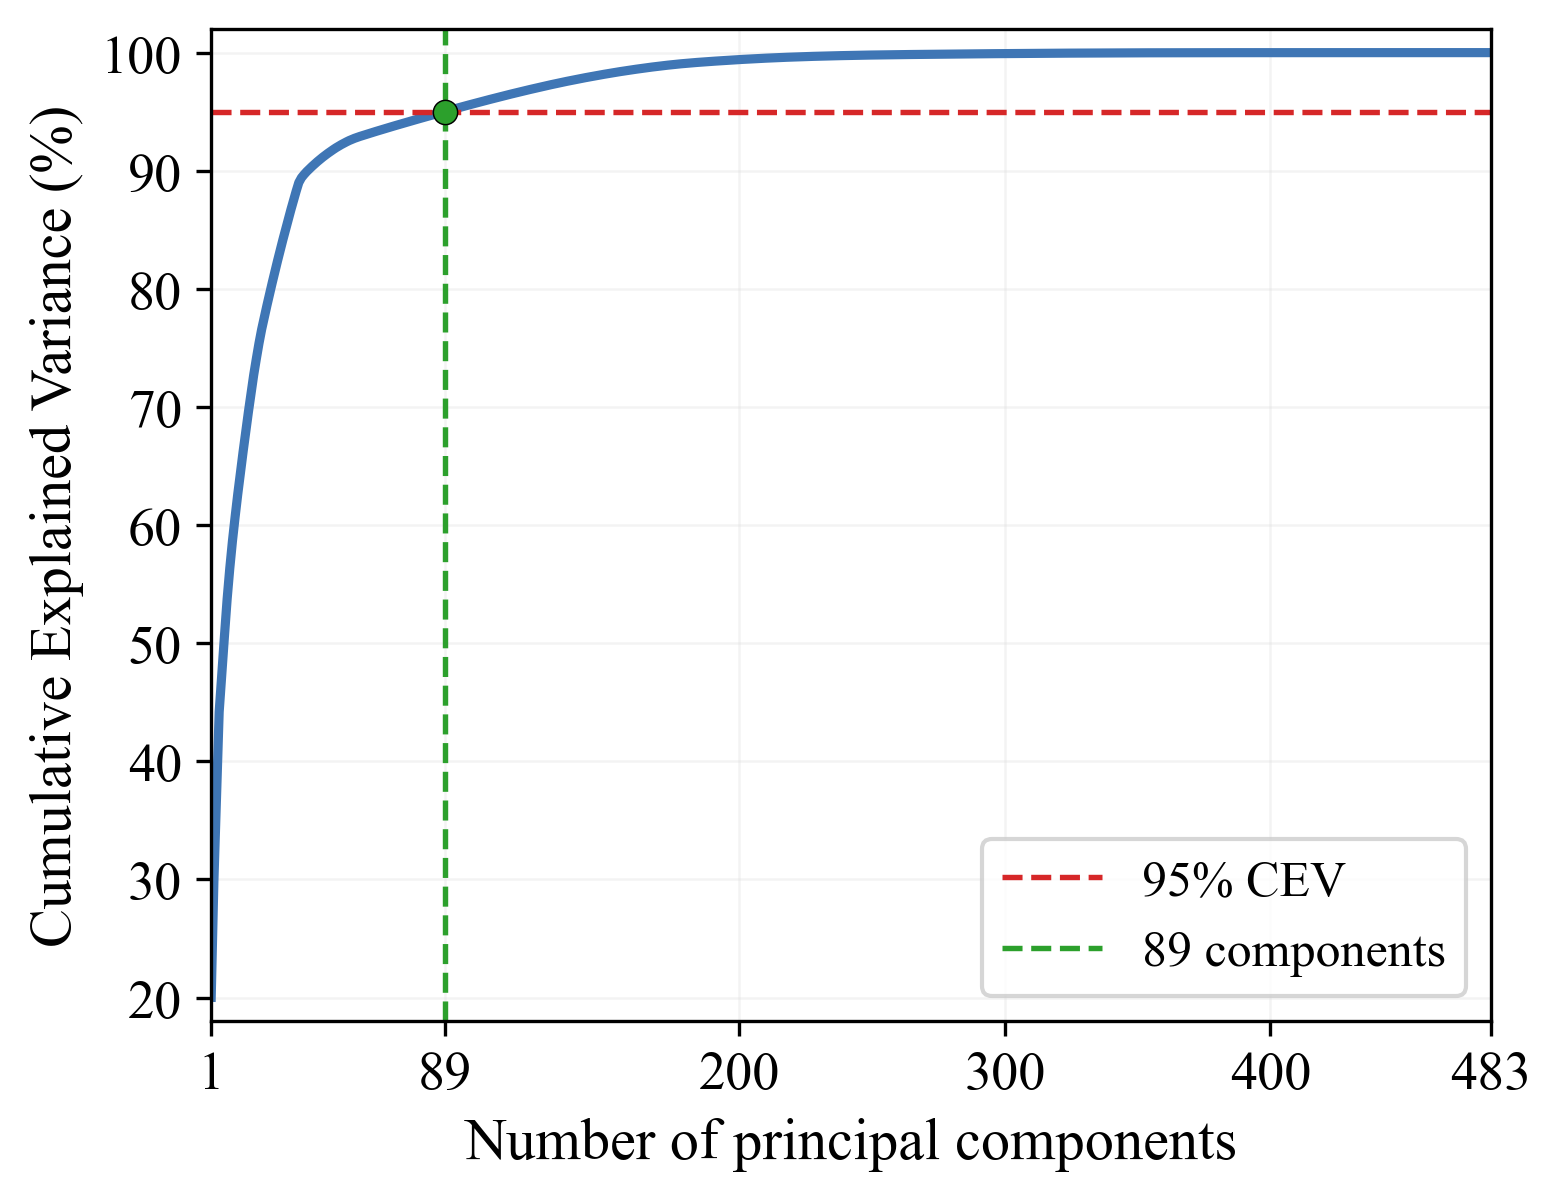
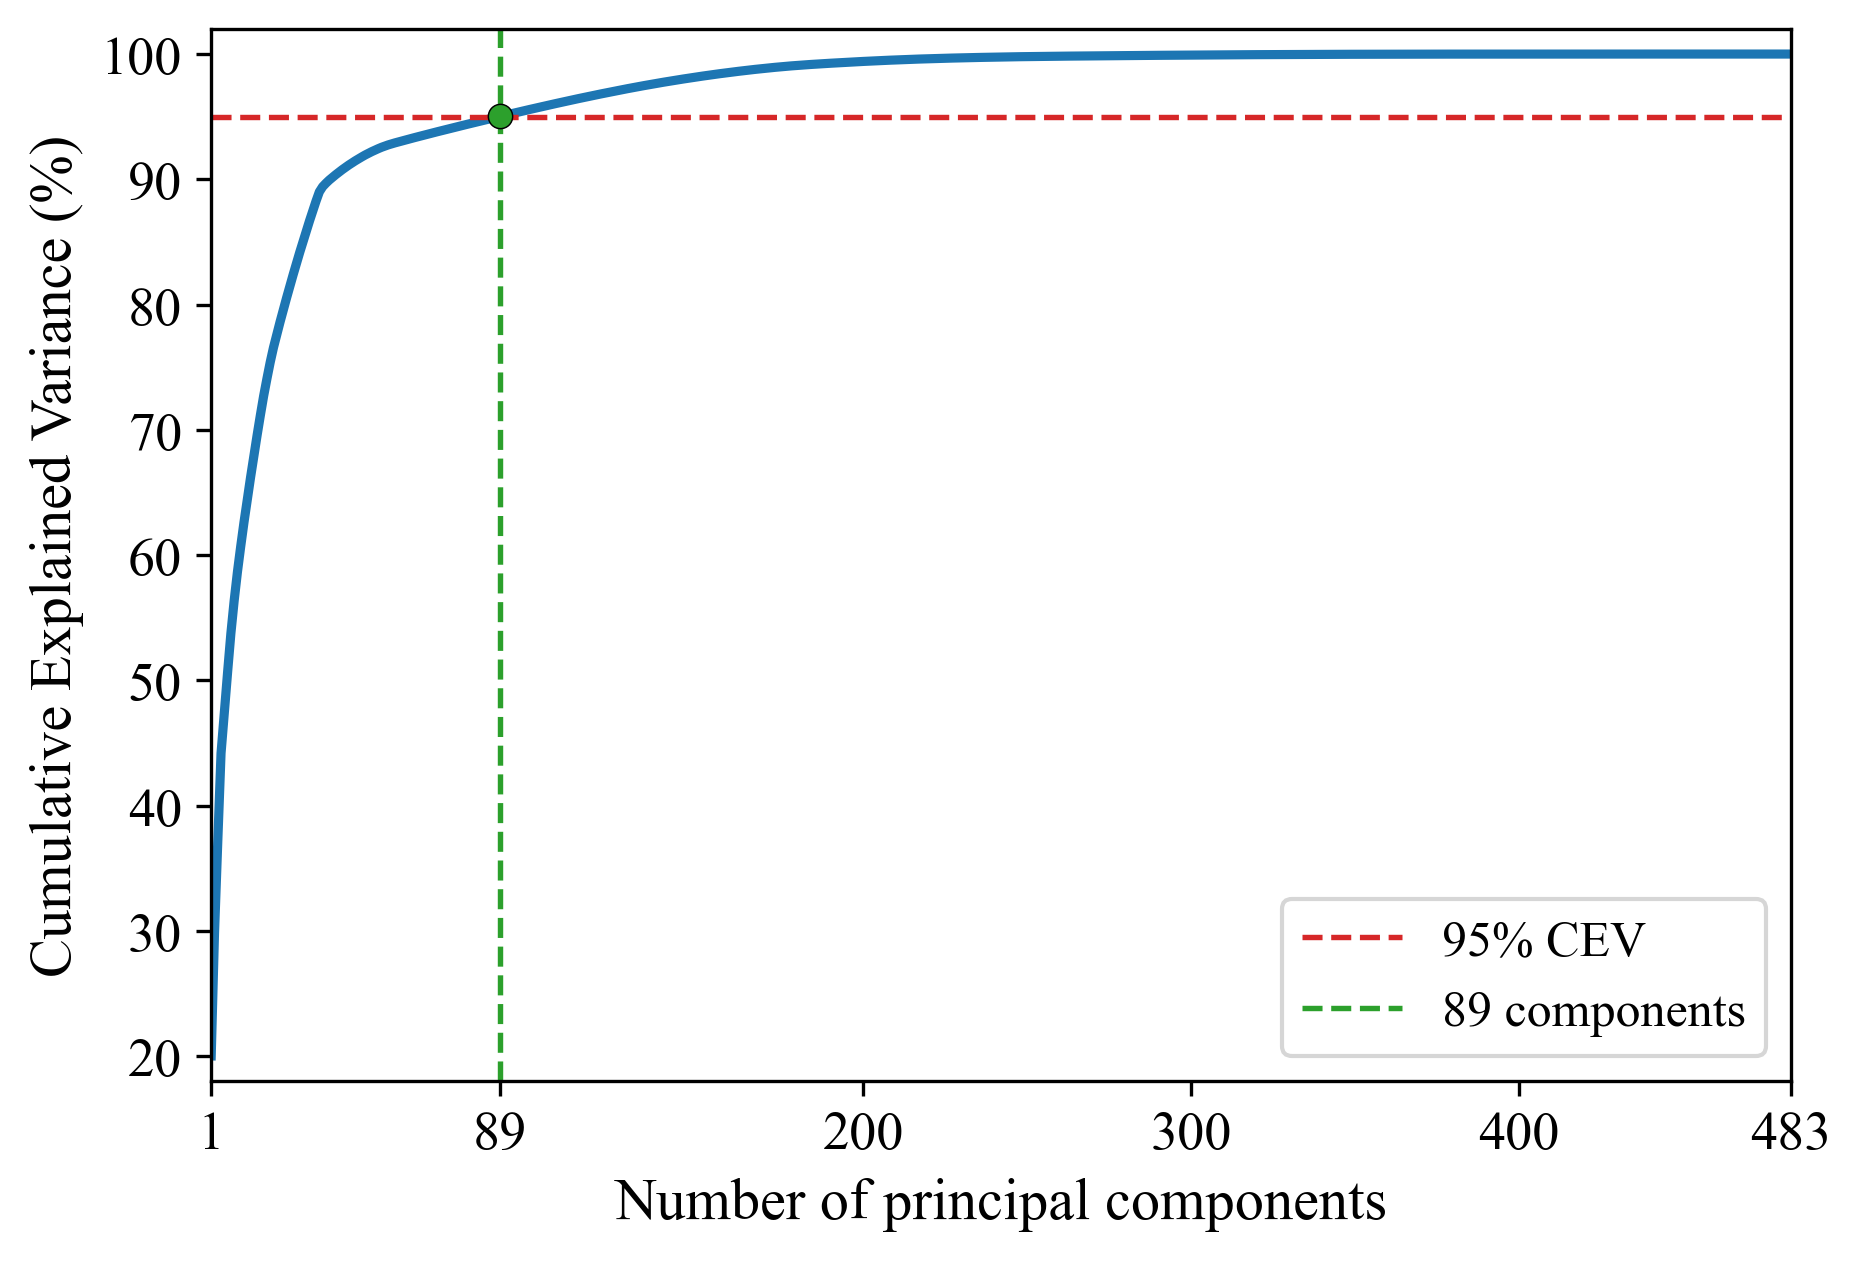
corrections

diff --git a/Chapters/Ch_5.tex b/Chapters/Ch_5.tex
@@ -18,7 +18,7 @@ The matrix was constructed so that each column corresponds to one of the 483 ban
 
 \begin{figure}[H]
     \centering
-    \includegraphics[width=0.60\textwidth]{Images/images_ch_5/05_original_vs_centered_spectrum.png}
+    \includegraphics[width=0.65\textwidth]{Images/images_ch_5/05_original_vs_centered_spectrum.png}
     \caption{Example of an original Raman spectrum and the corresponding centered spectrum used for PCA.}
     \label{fig:original_centered_spectrum}
 \end{figure}
@@ -29,8 +29,8 @@ After computing the new principal components, the most relevant parameter evalua
 
 \begin{figure}[H]
     \centering
-    \includegraphics[width=0.60\textwidth]{Images/images_ch_5/07_scree_plot_explained_variance.png}
-    \caption{Explained variance associated with the first principal components.}
+    \includegraphics[width=0.50\textwidth]{Images/images_ch_5/07_scree_plot_explained_variance.png}
+    \caption{Explained variance associated with the first \(50\) principal components.}
     \label{fig:pca_scree_plot}
 \end{figure}
 
@@ -38,10 +38,11 @@ The \textit{Cumulative Explained Variance} (CEV) plotted in \Cref{fig:pca_cumula
 
 \begin{figure}[H]
     \centering
-    \includegraphics[width=0.45\textwidth]{Images/images_ch_5/06_cumulative_explained_variance.png}
+    \includegraphics[width=0.50\textwidth]{Images/images_ch_5/06_cumulative_explained_variance.png}
     \caption{Cumulative explained variance as a function of the number of retained principal components.}
     \label{fig:pca_cumulative_variance}
 \end{figure}
+
 
 \Cref{fig:pca_reconstruction_comparison} shows the effect of reconstructing the same
 spectrum with just one component and with \(89\) components. The first component is able to capture the dominant trend, whereas the reconstruction using \(89\) components preserves the main spectral profile while providing a more compact representation.
@@ -119,14 +120,14 @@ The comparison of the tested configurations showed comparable results for all th
 
 \begin{figure}[H]
     \centering
-    \includegraphics[width=\textwidth]{Images/images_ch_5/heatmap_auc_macroclass.png}
+    \includegraphics[width=1\textwidth]{Images/images_ch_5/heatmap_auc_macroclass.png}
     \caption{AUC across the grid of network architectures and number of retained PCs for the macro-class problem (\textit{tumor} vs. \textit{healthy}). AUC stabilizes for numbers of PCs greater than 20.}
     \label{fig:heatmap_auc_macroclass}
 \end{figure}
 
 \begin{figure}[H]
     \centering
-    \includegraphics[width=\textwidth]{Images/images_ch_5/heatmap_auc_singleclass.png}
+    \includegraphics[width=1\textwidth]{Images/images_ch_5/heatmap_auc_singleclass.png}
     \caption{AUC across the grid of network architectures and number of retained PCs for the single-class problem (\textit{tumor} vs. \textit{tumor stroma}). AUC stabilizes for numbers of PCs greater than 10.}
     \label{fig:heatmap_auc_singleclass}
 \end{figure}
@@ -135,7 +136,7 @@ Although some configurations with more components or larger networks obtained eq
 
 \begin{figure}[h]
     \centering
-    \includegraphics[width=0.8\textwidth]{Images/images_ch_5/overfitting_example_L200.png}
+    \includegraphics[width=1\textwidth]{Images/images_ch_5/overfitting_example_L200.png}
     \caption{Training and validation curves for the large architecture (L) with \(200\) retained PCA components on the macro-class problem (\textit{tumor} vs. \textit{healthy}). The lines show the average value of the metric across 5 folds, while shaded areas display $\pm\sigma$ from the average. The growing separation between training and validation curves is a sign of overfitting.}
     \label{fig:overfitting_example_L200}
 \end{figure}
@@ -174,14 +175,22 @@ The configurations chosen for the two approaches, listed in \cref{tab:selected_h
 The confusion matrices and ROC curves, explained in \cref{sec:evaluation_metrics}, showed good results for both problems. The macro-class approach performed slightly worse than the single-class one, especially in non-tumoral classification, with true negative rates equaled 0,71 and 0,75 respectively, while tumoral recall achieved 0,74 in the first problem and 0,76 for the second. The imbalance in TNR is a direct consequence of the internal heterogeneity of the healthy class. The ROC curves showed symmetrical behavior with respect to the TPR and FNR, with high variability depending on the validation fold composition. Mean AUC across 5 folds achieved scores of $\text{AUC} = 0{,}7931\pm0{,}0390$, relative standard deviation $\sigma_{relative} = 4{,}9\%$, for the macro-class problem (\cref{fig:results_S20_macroclass}), and $\text{AUC} = 0{,}836\pm0{,}043$, $\sigma_{relative} = 5{,}1\%$, for the single-class problem (\cref{fig:results_S10_singleclass}). The difference in mean AUC once again indicates that, on average, the macro-class approach is more difficult than the single-class one.
 
 
+The training behavior was observed to be different between the two problems. All the validation curves sit above the training ones for the first epochs due to being evaluated after the weights are updated (while training is evaluated before the weight update). The two curves then intersect, and validation stays below training.
+
+The validation curves for the macro-class classification displayed very high variability but stabilized after only $\sim2$ epochs (\cref{fig:curves_S20_macroclass}), causing the gap between the curves to mildly increase. The model quickly learned the basic patterns and trends, achieving an AUC of 0,7931, especially thanks to the homogeneity of the tumoral class, but did not improve further and failed to generalize as well for the healthy class.
+
+
+
+The curves for the single-class problem, on the other hand, improved regularly in the early stages of training until reaching a plateau after $\sim5$ epochs, with validation staying within an acceptable margin below training. The random fold composition and small validation set size cause the standard deviation of the validation metric to be greater than that of training, enough for some individual folds to show validation above training, even though the average curve remains below.
+
 \begin{figure}[H]
     \centering
     \subfloat[Confusion matrix.\label{fig:CM_S20_macroclass}]{
-        \includegraphics[width=0.4\textwidth]{Images/images_ch_5/CM_S20_macroclass.png}
+        \includegraphics[width=0.45\textwidth]{Images/images_ch_5/CM_S20_macroclass.png}
     }
     \hfill
     \subfloat[ROC curve.\label{fig:ROC_S20_macroclass}]{
-        \includegraphics[width=0.4\textwidth]{Images/images_ch_5/ROC_S20_macroclass.png}
+        \includegraphics[width=0.45\textwidth]{Images/images_ch_5/ROC_S20_macroclass.png}
     }
     \caption{Confusion matrix and ROC curve for the macro-class problem (\textit{tumor} vs. \textit{healthy}).}
     \label{fig:results_S20_macroclass}
@@ -190,29 +199,25 @@ The confusion matrices and ROC curves, explained in \cref{sec:evaluation_metrics
 \begin{figure}[H]
     \centering
     \subfloat[Confusion matrix.\label{fig:CM_S10_singleclass}]{
-        \includegraphics[width=0.4\textwidth]{Images/images_ch_5/CM_S10_singleclass.png}
+        \includegraphics[width=0.45\textwidth]{Images/images_ch_5/CM_S10_singleclass.png}
     }
     \hfill
     \subfloat[ROC curve.\label{fig:ROC_S10_singleclass}]{
-        \includegraphics[width=0.4\textwidth]{Images/images_ch_5/ROC_S10_singleclass.png}
+        \includegraphics[width=0.45\textwidth]{Images/images_ch_5/ROC_S10_singleclass.png}
     }
     \caption{Confusion matrix and ROC curve for the single-class problem (\textit{tumor} vs. \textit{tumor stroma}).}
     \label{fig:results_S10_singleclass}
 \end{figure}
 
 
-The training behavior was observed to be different between the two problems. All the validation curves sit above the training ones for the first epochs due to being evaluated after the weights are updated (while training is evaluated before the weight update). The two curves then intersect, and validation stays below training.
-The validation curves for the macro-class classification displayed very high variability but stabilized after only $\sim2$ epochs (\cref{fig:curves_S20_macroclass}), causing the gap between the curves to mildly increase. The model quickly learned the basic patterns and trends, achieving an AUC of 0,7931, especially thanks to the homogeneity of the tumoral class, but did not improve further and failed to generalize as well for the healthy class.
-The curves for the single-class problem, on the other hand, improved regularly in the early stages of training until reaching a plateau after $\sim5$ epochs, with validation staying within an acceptable margin below training. The random fold composition and small validation set size cause the standard deviation of the validation metric to be greater than that of training, enough for some individual folds to show validation above training, even though the average curve remains below.
-
 \begin{figure}[H]
     \centering
     \subfloat[Macro-class problem (\textit{tumor} vs. \textit{healthy}).\label{fig:curves_S20_macroclass}]{
-        \includegraphics[width=0.8\textwidth]{Images/images_ch_5/curves_S20_macroclass.png}
+        \includegraphics[width=0.9\textwidth]{Images/images_ch_5/curves_S20_macroclass.png}
     }
     \\
     \subfloat[Single-class problem (\textit{tumor} vs. \textit{tumor stroma}).\label{fig:curves_S10_singleclass}]{
-        \includegraphics[width=0.8\textwidth]{Images/images_ch_5/curves_S10_singleclass.png}
+        \includegraphics[width=0.9\textwidth]{Images/images_ch_5/curves_S10_singleclass.png}
     }
     \caption{Training and validation curves for the macro-class and single-class problems. The lines show the average value of the metric across 5 folds, while shaded areas display $\pm\sigma$ from the average. The representation is truncated at the number of epochs used to train the fold that stopped first, although other folds took up to 80 epochs to train.}
     \label{fig:training_curves}
@@ -262,11 +267,11 @@ Furthermore, it is not excluded that a very poor performance on a sample may dep
 \begin{figure}[H]
     \centering
     \subfloat[\textit{tumour} vs. \textit{healthy}.\label{fig:sample_f1_tumour_healthy}]{
-        \includegraphics[width=0.48\textwidth]{Images/images_ch_5/sample_f1_tumour_healthy.png}
+        \includegraphics[width=0.45\textwidth]{Images/images_ch_5/sample_f1_tumour_healthy.png}
     }
     \hfill
     \subfloat[\textit{tumour} vs. \textit{tumour stroma}.\label{fig:sample_f1_tumour_stroma}]{
-        \includegraphics[width=0.48\textwidth]{Images/images_ch_5/sample_f1_tumour_stroma.png}
+        \includegraphics[width=0.45\textwidth]{Images/images_ch_5/sample_f1_tumour_stroma.png}
     }
     \caption{Per-sample \textit{F1-score} for the two binary classification experiments.}
     \label{fig:sample_f1_comparison}
@@ -350,13 +355,13 @@ Observing the smoothed prediction maps and comparing them with the raw ones, as 
 \begin{figure}[H]
     \centering
     \subfloat[Raw prediction map.\label{fig:prediction_map_raw_tumour_stroma}]{
-        \includegraphics[width=0.90\textwidth]{Images/images_ch_5/sample_3525_028_map_Map_1_raw.png}
+        \includegraphics[width=1\textwidth]{Images/images_ch_5/sample_3525_028_map_Map_1_raw.png}
     }
     
     \vspace{0.5em}
     
     \subfloat[Prediction map after \(7 \times 7\) smoothing.\label{fig:prediction_map_smoothed_tumour_stroma}]{
-        \includegraphics[width=0.90\textwidth]{Images/images_ch_5/sample_3525_028_map_Map_1_7x7_smoothing.png}
+        \includegraphics[width=1\textwidth]{Images/images_ch_5/sample_3525_028_map_Map_1_7x7_smoothing.png}
     }
     \caption{Comparison between raw and smoothed prediction maps for the \textit{tumour} vs. \textit{healthy} experiment.}
     \label{fig:prediction_maps_raw_smoothed_tumour_stroma}

diff --git a/Chapters/Ch_4.tex b/Chapters/Ch_4.tex
@@ -10,10 +10,6 @@ broader category of head and neck tumours; it develops from the mucosal epitheli
 the oral cavity, pharynx, larynx and sinonasal tract and is classified as the sixth most
 common cancer worldwide, with estimates foreseeing an increasing trend in incidence and
 occurrences in the upcoming years.
-<<<<<<< HEAD
-PDTSCs are ex vivo samples obtained from tumour tissue removed from patients, sliced into thin sections, and maintained in culture. They are useful because they preserve, at least in part, the cellular heterogeneity of the original tumour.
-=======
->>>>>>> 3d81f20778386c1c372219f67eb1ac2a14788eb4
 
 The acquisition of the maps and the preparation of the raw spectra were not part of the work undertaken in this thesis.
 
@@ -121,11 +117,11 @@ Among the classes, two do not correspond to any biological tissue and were remov
 \begin{figure}[H]
     \centering
     \subfloat[Occurrences for each label in the dataset.\label{fig:label_distribution}]{
-        \includegraphics[width=0.45\textwidth]{Images/images_ch_4/label_distributions.png}
+        \includegraphics[width=0.48\textwidth]{Images/images_ch_4/label_distributions.png}
     }
     \hfill
     \subfloat[Binary grouping by tumoral and healthy spectra after discarding unlabeled, transparent pixels and artifacts.\label{fig:binary_label_distribution}]{
-        \includegraphics[width=0.45\textwidth]{Images/images_ch_4/binary_label_distribution.png}
+        \includegraphics[width=0.48\textwidth]{Images/images_ch_4/binary_label_distribution.png}
     }
     \caption{Distribution of labels in the dataset.}
     \label{fig:label_distributions}
@@ -151,11 +147,11 @@ All classes appear to have the same trends, with multiple similar peaks in the \
 \begin{figure}[H]
     \centering
     \subfloat[\textit{tumor} spectrum against the excluded non-tissue classes (\textit{unlabeled/transparent}, \textit{artifact}) and \textit{necrosis}.\label{fig:spectra_comparison_discarded}]{
-        \includegraphics[width=0.45\textwidth]{Images/images_ch_4/spectra_comparison_discarded.png}
+        \includegraphics[width=0.48\textwidth]{Images/images_ch_4/spectra_comparison_discarded.png}
     }
     \hfill
     \subfloat[\textit{tumor} spectrum against the most represented healthy classes.\label{fig:spectra_comparison_similar}]{
-        \includegraphics[width=0.45\textwidth]{Images/images_ch_4/spectra_comparison_similar.png}
+        \includegraphics[width=0.48\textwidth]{Images/images_ch_4/spectra_comparison_similar.png}
     }
     \caption{Comparison of spectra for different classes. The spectra are averaged across each label and SNV-normalized.}
     \label{fig:spectra_comparisons}
@@ -207,11 +203,11 @@ Two binary problems are therefore taken forward to the classification stage. The
 \begin{figure}[H]
     \centering
     \subfloat[\textit{Tumor} vs.\textit{healthy} classification.\label{fig:heatmap-tumor-vs-healthy}]{
-        \includegraphics[width=0.45\textwidth]{Images/images_ch_4/heatmap_tumor_vs_healthy.png}
+        \includegraphics[width=0.48\textwidth]{Images/images_ch_4/heatmap_tumor_vs_healthy.png}
     }
     \hfill
     \subfloat[\textit{Tumor} vs.\textit{tumor stroma} classification.\label{fig:heatmap-tumor-vs-stroma}]{
-        \includegraphics[width=0.45\textwidth]{Images/images_ch_4/heatmap_tumor_vs_stroma.png}
+        \includegraphics[width=0.48\textwidth]{Images/images_ch_4/heatmap_tumor_vs_stroma.png}
     }
     \caption{Maps with highlighted labels based on classification approach. As is often the case, \textit{tumor stroma} is located at the boundary of the \textit{tumoral} region.}
     \label{fig:heatmap_classification}

diff --git a/Chapters/Ch_3.tex b/Chapters/Ch_3.tex
@@ -4,16 +4,16 @@
 
 This thesis was carried out within the VIBRA research group, which poses as its primary aim to develop a next-generation microscopy system capable of inspecting in two dimensions the chemical content of a biological specimen using Raman scattering techniques, more specifically to identify tumours in human biopsies with accuracy and reproducibility.
 
-The aim pursued in this thesis is to apply machine learning methods, specifically Principal Component Analysis (PCA) and an Artificial Neural Network (ANN), using Python tools, on a dataset consisting of hyperspectral Raman maps acquired from
+The aim pursued in this thesis is to apply machine learning methods, specifically \textit{Principal Component Analysis} (PCA) and an \textit{Artificial Neural Network} (ANN), using Python tools, on a dataset consisting of hyperspectral Raman maps acquired from
 patient-derived tumor biopsies of head and neck squamous cell carcinoma (HNSCC), already prepared for computation. Through these methods, the composition of the available data is investigated, with particular interest in evaluating a binary classification pipeline to identify a defined tumour class among different tissue types.
 
 In detail, the work will focus on the following steps:
 \begin{itemize}
-    \item first, the available data are examined both quantitatively and qualitatively, exploring their structure and statistical distribution. The biological relevance of the tissue classes present is assessed in preparation for defining the binary classification problem;
+    \item the available data are examined both quantitatively and qualitatively, exploring their structure and statistical distribution. The biological relevance of the tissue classes present is assessed in order to define the binary classification problem;
 
-    \item PCA is computed to project the dataset into a new subspace and capture the variance along the spectral bands, to assess whether a reduced representation is appropriate. Moreover, this could enable the identification of important features that can be used for data separation and inspection;
+    \item  \textit{Principal Component Analysis} is computed to project the dataset into a new subspace and capture the variance along the spectral bands, to assess whether a reduced representation is appropriate. Moreover, this could enable the identification of important features that can be used for data separation and inspection;
 
-    \item three different artificial neural network architectures are implemented, and their performance is evaluated by testing them on two distinct binary classification tasks, both of which classify data into tumour and non-tumour classes. The aim is to determine which of the tested architectures performs best in terms of prediction results and computational complexity;
+    \item three different \textit{Artificial Neural Network} architectures are implemented, and their performance is evaluated by testing them on two distinct binary classification tasks, both of which classify data into tumour and non-tumour classes. The aim is to determine which of the tested architectures performs best in terms of prediction results and computational complexity.
 \end{itemize}
 
 

diff --git a/Chapters/Ch_2.tex b/Chapters/Ch_2.tex
@@ -251,11 +251,11 @@ A Perceptron is simply composed of a single layer of TLUs, with each TLU connect
 \begin{figure}[ht]
     \centering
     \subfloat[Single Perceptron: inputs are combined via a weighted sum then passed through a step function.\label{fig:perceptron}]{
-        \includegraphics[width=0.45\textwidth]{Images/images_ch_2/perceptron.png}
+        \includegraphics[width=0.47\textwidth]{Images/images_ch_2/perceptron.png}
     }
     \hfill
     \subfloat[Two-layer Perceptron: multiple TLUs stacked into an input and an output layer.\label{fig:two_layer_perceptron}]{
-        \includegraphics[width=0.45\textwidth]{Images/images_ch_2/two_layer_perceptron.png}
+        \includegraphics[width=0.47\textwidth]{Images/images_ch_2/two_layer_perceptron.png}
     }
     \caption{Perceptron architectures~\cite{geron2022hands}.}
     \label{fig:perceptrons}
@@ -375,7 +375,7 @@ It closely represents the firing rates of biological neurons and, due to squashi
 
 \begin{figure}[ht]
     \centering
-    \includegraphics[width=0.8\textwidth]{Images/images_ch_2/sigmoid.png}
+    \includegraphics[width=0.9\textwidth]{Images/images_ch_2/sigmoid.png}
     \caption{Sigmoid function $\sigma(z)$ (left) and its derivative $\sigma'(z) = \sigma(z)(1-\sigma(z))$ (right). The shaded regions show the saturation zones where the gradient is nearly zero, slowing down learning through backpropagation.}
     \label{fig:sigmoid}
 \end{figure}
@@ -396,7 +396,7 @@ This has been the choice for the hidden layers for the ANN used for this thesis.
 
 \begin{figure}[ht]
     \centering
-    \includegraphics[width=0.8\textwidth]{Images/images_ch_2/relu.png}
+    \includegraphics[width=0.9\textwidth]{Images/images_ch_2/relu.png}
     \caption{ReLU function (left) and its derivative (right). For $z < 0$ the output and gradient are both exactly zero (the so-called \textit{dying ReLU} problem), while for $z > 0$ the gradient is a constant 1, avoiding saturation.}
     \label{fig:relu}
 \end{figure}

diff --git a/Chapters/Ch_1.tex b/Chapters/Ch_1.tex
@@ -48,7 +48,7 @@ where \(\nu_k\) is the vibrational frequency of the \(k\)-th normal mode.
 
 \begin{figure}[htbp]
     \centering
-    \includegraphics[width=0.70\textwidth]{Images/images_ch_1/normal_modes.png}
+    \includegraphics[width=0.75\textwidth]{Images/images_ch_1/normal_modes.png}
     \caption{Examples of normal vibrational modes in simple molecules, such as symmetric stretching, bending or asymmetric stretching \cite{smith2005modernraman}.}
     \label{fig:normal_modes}
 \end{figure}
